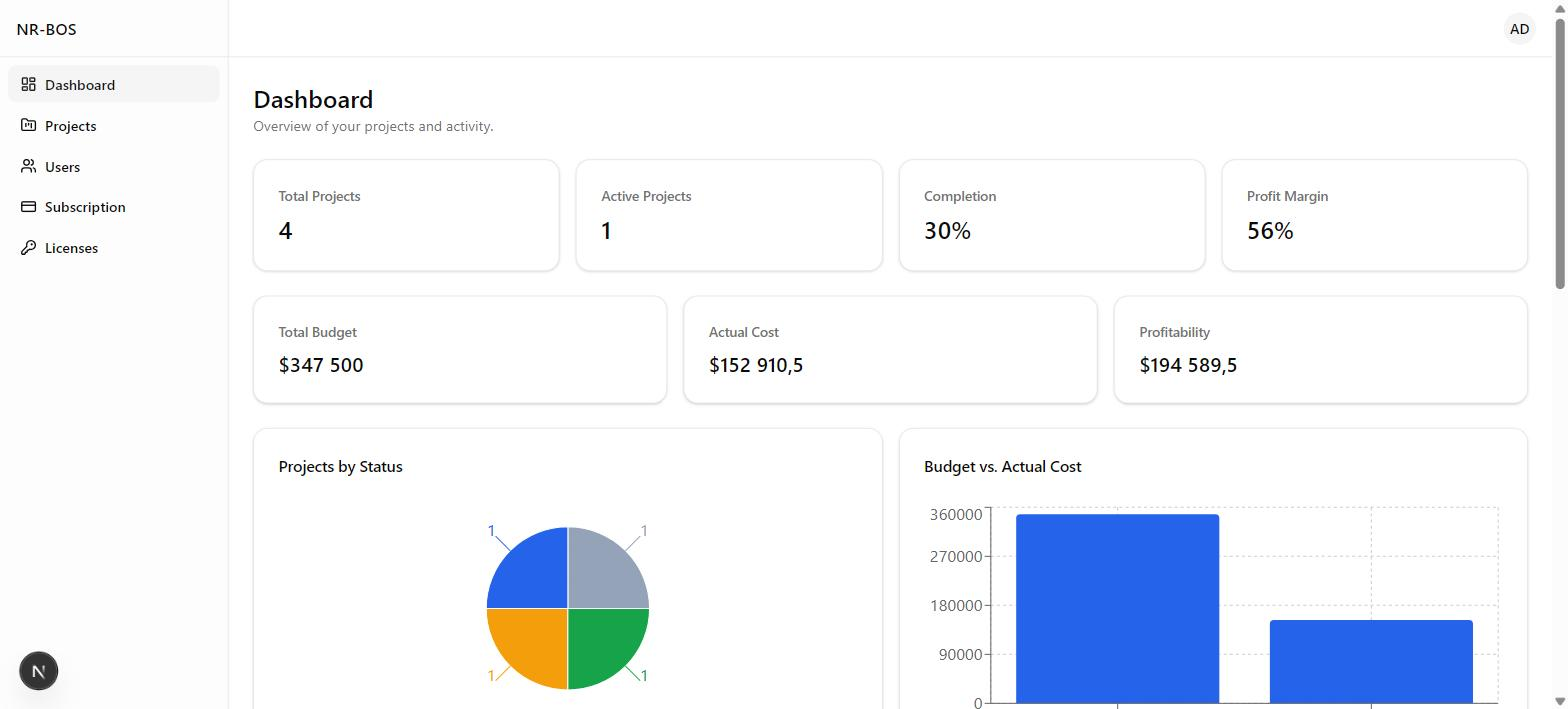
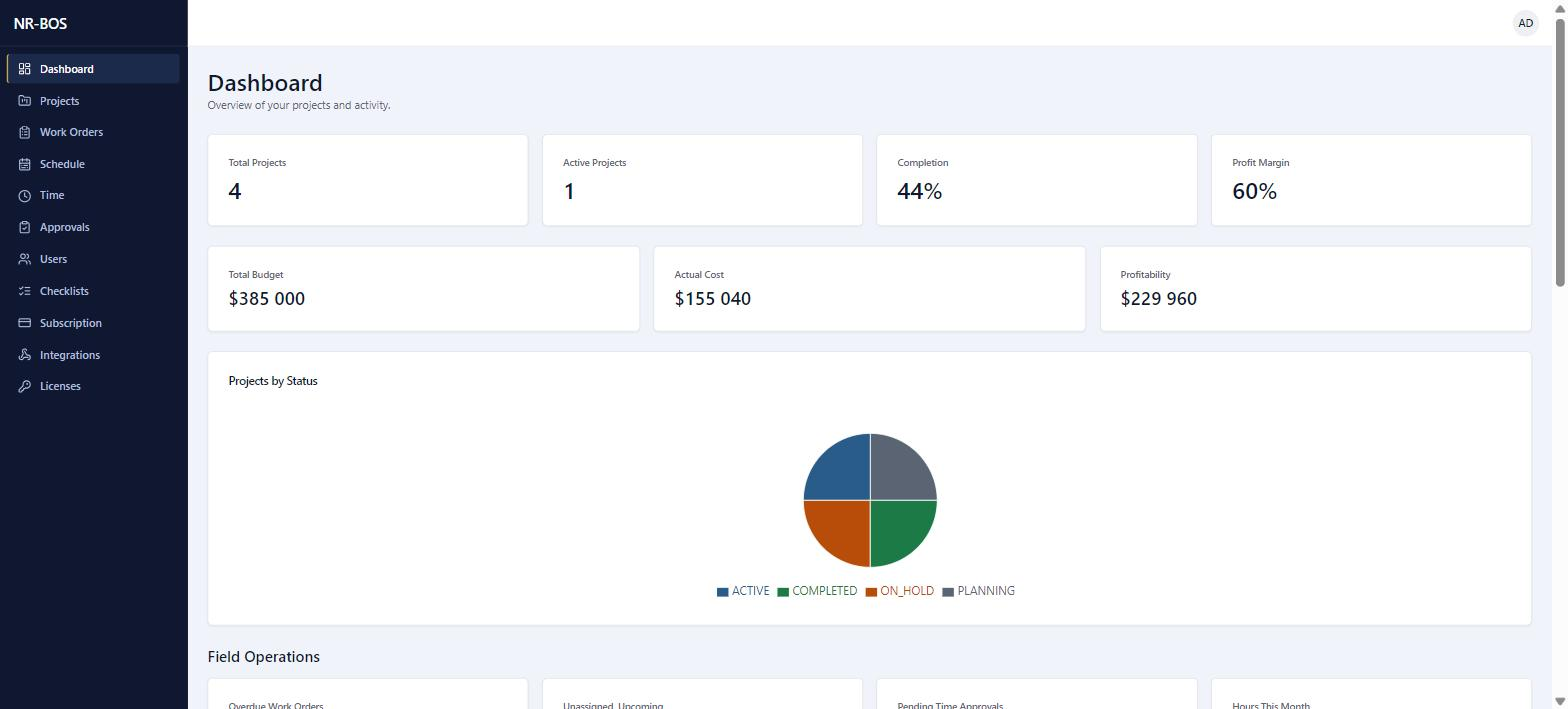
Refresh stale dashboard screenshot with seeded example data
dashboard-overview.jpg predated Work Orders/Schedule/Time/Approvals/
Checklists/Integrations — its sidebar only showed 5 nav items against
the current 10, and it showed an empty account (0 projects, no profit
margin figure), contradicting the copy that already described these
tiles. Seeded 4 example projects (varied status, budget, tasks, cost
entries) into the admin@nrbos.live account and recaptured the Dashboard
view at the exact same 1568x709 crop. Alt text updated to match what's
actually in the new image (profit margin is now visible; the old "cost
bars" description no longer matches the current tile layout).

This is the first of several stale screenshots (7 tour panels, ~15
images total) — the rest need photo uploads and other setup I'm
checking in about before continuing.

diff --git a/docs/sv/work/nr-bos/index.html b/docs/sv/work/nr-bos/index.html
@@ -522,8 +522,8 @@
           <div class="nrb2-shots">
             <figure class="nrb2-frame">
               <div class="nrb2-frame-bar"><i></i><i></i><i></i></div>
-              <img src="/assets/img/nr-bos/dashboard-overview.jpg" alt="NR-BOS-instrumentpanel som visar fyra projekträkningar, staplar för budget mot faktisk kostnad och ett cirkeldiagram över projekt efter status" loading="lazy" width="1568" height="710">
-              <figcaption>NR-BOS-instrumentpanel som visar fyra projekträkningar, staplar för budget mot faktisk kostnad och ett cirkeldiagram över projekt efter status</figcaption>
+              <img src="/assets/img/nr-bos/dashboard-overview.jpg" alt="NR-BOS-instrumentpanel som visar projekträkningar, färdigställandegrad, vinstmarginal, budget mot faktisk kostnad och ett cirkeldiagram över projekt efter status" loading="lazy" width="1568" height="710">
+              <figcaption>NR-BOS-instrumentpanel som visar projekträkningar, färdigställandegrad, vinstmarginal, budget mot faktisk kostnad och ett cirkeldiagram över projekt efter status</figcaption>
             </figure>
           </div>
         </div>

diff --git a/docs/ar/work/nr-bos/index.html b/docs/ar/work/nr-bos/index.html
@@ -523,8 +523,8 @@
           <div class="nrb2-shots">
             <figure class="nrb2-frame">
               <div class="nrb2-frame-bar"><i></i><i></i><i></i></div>
-              <img src="/assets/img/nr-bos/dashboard-overview.jpg" alt="NR-BOS dashboard showing four project counts, budget vs. actual cost bars, and a projects-by-status pie chart" loading="lazy" width="1568" height="710">
-              <figcaption>NR-BOS dashboard showing four project counts, budget vs. actual cost bars, and a projects-by-status pie chart</figcaption>
+              <img src="/assets/img/nr-bos/dashboard-overview.jpg" alt="NR-BOS dashboard showing project counts, completion percentage, profit margin, budget vs. actual cost, and a projects-by-status pie chart" loading="lazy" width="1568" height="710">
+              <figcaption>NR-BOS dashboard showing project counts, completion percentage, profit margin, budget vs. actual cost, and a projects-by-status pie chart</figcaption>
             </figure>
           </div>
         </div>

diff --git a/docs/de/work/nr-bos/index.html b/docs/de/work/nr-bos/index.html
@@ -522,8 +522,8 @@
           <div class="nrb2-shots">
             <figure class="nrb2-frame">
               <div class="nrb2-frame-bar"><i></i><i></i><i></i></div>
-              <img src="/assets/img/nr-bos/dashboard-overview.jpg" alt="NR-BOS dashboard showing four project counts, budget vs. actual cost bars, and a projects-by-status pie chart" loading="lazy" width="1568" height="710">
-              <figcaption>NR-BOS dashboard showing four project counts, budget vs. actual cost bars, and a projects-by-status pie chart</figcaption>
+              <img src="/assets/img/nr-bos/dashboard-overview.jpg" alt="NR-BOS dashboard showing project counts, completion percentage, profit margin, budget vs. actual cost, and a projects-by-status pie chart" loading="lazy" width="1568" height="710">
+              <figcaption>NR-BOS dashboard showing project counts, completion percentage, profit margin, budget vs. actual cost, and a projects-by-status pie chart</figcaption>
             </figure>
           </div>
         </div>

diff --git a/docs/es/work/nr-bos/index.html b/docs/es/work/nr-bos/index.html
@@ -522,8 +522,8 @@
           <div class="nrb2-shots">
             <figure class="nrb2-frame">
               <div class="nrb2-frame-bar"><i></i><i></i><i></i></div>
-              <img src="/assets/img/nr-bos/dashboard-overview.jpg" alt="NR-BOS dashboard showing four project counts, budget vs. actual cost bars, and a projects-by-status pie chart" loading="lazy" width="1568" height="710">
-              <figcaption>NR-BOS dashboard showing four project counts, budget vs. actual cost bars, and a projects-by-status pie chart</figcaption>
+              <img src="/assets/img/nr-bos/dashboard-overview.jpg" alt="NR-BOS dashboard showing project counts, completion percentage, profit margin, budget vs. actual cost, and a projects-by-status pie chart" loading="lazy" width="1568" height="710">
+              <figcaption>NR-BOS dashboard showing project counts, completion percentage, profit margin, budget vs. actual cost, and a projects-by-status pie chart</figcaption>
             </figure>
           </div>
         </div>

diff --git a/docs/fr/work/nr-bos/index.html b/docs/fr/work/nr-bos/index.html
@@ -522,8 +522,8 @@
           <div class="nrb2-shots">
             <figure class="nrb2-frame">
               <div class="nrb2-frame-bar"><i></i><i></i><i></i></div>
-              <img src="/assets/img/nr-bos/dashboard-overview.jpg" alt="NR-BOS dashboard showing four project counts, budget vs. actual cost bars, and a projects-by-status pie chart" loading="lazy" width="1568" height="710">
-              <figcaption>NR-BOS dashboard showing four project counts, budget vs. actual cost bars, and a projects-by-status pie chart</figcaption>
+              <img src="/assets/img/nr-bos/dashboard-overview.jpg" alt="NR-BOS dashboard showing project counts, completion percentage, profit margin, budget vs. actual cost, and a projects-by-status pie chart" loading="lazy" width="1568" height="710">
+              <figcaption>NR-BOS dashboard showing project counts, completion percentage, profit margin, budget vs. actual cost, and a projects-by-status pie chart</figcaption>
             </figure>
           </div>
         </div>

diff --git a/docs/it/work/nr-bos/index.html b/docs/it/work/nr-bos/index.html
@@ -522,8 +522,8 @@
           <div class="nrb2-shots">
             <figure class="nrb2-frame">
               <div class="nrb2-frame-bar"><i></i><i></i><i></i></div>
-              <img src="/assets/img/nr-bos/dashboard-overview.jpg" alt="NR-BOS dashboard showing four project counts, budget vs. actual cost bars, and a projects-by-status pie chart" loading="lazy" width="1568" height="710">
-              <figcaption>NR-BOS dashboard showing four project counts, budget vs. actual cost bars, and a projects-by-status pie chart</figcaption>
+              <img src="/assets/img/nr-bos/dashboard-overview.jpg" alt="NR-BOS dashboard showing project counts, completion percentage, profit margin, budget vs. actual cost, and a projects-by-status pie chart" loading="lazy" width="1568" height="710">
+              <figcaption>NR-BOS dashboard showing project counts, completion percentage, profit margin, budget vs. actual cost, and a projects-by-status pie chart</figcaption>
             </figure>
           </div>
         </div>

diff --git a/docs/nl/work/nr-bos/index.html b/docs/nl/work/nr-bos/index.html
@@ -522,8 +522,8 @@
           <div class="nrb2-shots">
             <figure class="nrb2-frame">
               <div class="nrb2-frame-bar"><i></i><i></i><i></i></div>
-              <img src="/assets/img/nr-bos/dashboard-overview.jpg" alt="NR-BOS dashboard showing four project counts, budget vs. actual cost bars, and a projects-by-status pie chart" loading="lazy" width="1568" height="710">
-              <figcaption>NR-BOS dashboard showing four project counts, budget vs. actual cost bars, and a projects-by-status pie chart</figcaption>
+              <img src="/assets/img/nr-bos/dashboard-overview.jpg" alt="NR-BOS dashboard showing project counts, completion percentage, profit margin, budget vs. actual cost, and a projects-by-status pie chart" loading="lazy" width="1568" height="710">
+              <figcaption>NR-BOS dashboard showing project counts, completion percentage, profit margin, budget vs. actual cost, and a projects-by-status pie chart</figcaption>
             </figure>
           </div>
         </div>

diff --git a/docs/pl/work/nr-bos/index.html b/docs/pl/work/nr-bos/index.html
@@ -522,8 +522,8 @@
           <div class="nrb2-shots">
             <figure class="nrb2-frame">
               <div class="nrb2-frame-bar"><i></i><i></i><i></i></div>
-              <img src="/assets/img/nr-bos/dashboard-overview.jpg" alt="NR-BOS dashboard showing four project counts, budget vs. actual cost bars, and a projects-by-status pie chart" loading="lazy" width="1568" height="710">
-              <figcaption>NR-BOS dashboard showing four project counts, budget vs. actual cost bars, and a projects-by-status pie chart</figcaption>
+              <img src="/assets/img/nr-bos/dashboard-overview.jpg" alt="NR-BOS dashboard showing project counts, completion percentage, profit margin, budget vs. actual cost, and a projects-by-status pie chart" loading="lazy" width="1568" height="710">
+              <figcaption>NR-BOS dashboard showing project counts, completion percentage, profit margin, budget vs. actual cost, and a projects-by-status pie chart</figcaption>
             </figure>
           </div>
         </div>

diff --git a/docs/pt/work/nr-bos/index.html b/docs/pt/work/nr-bos/index.html
@@ -522,8 +522,8 @@
           <div class="nrb2-shots">
             <figure class="nrb2-frame">
               <div class="nrb2-frame-bar"><i></i><i></i><i></i></div>
-              <img src="/assets/img/nr-bos/dashboard-overview.jpg" alt="NR-BOS dashboard showing four project counts, budget vs. actual cost bars, and a projects-by-status pie chart" loading="lazy" width="1568" height="710">
-              <figcaption>NR-BOS dashboard showing four project counts, budget vs. actual cost bars, and a projects-by-status pie chart</figcaption>
+              <img src="/assets/img/nr-bos/dashboard-overview.jpg" alt="NR-BOS dashboard showing project counts, completion percentage, profit margin, budget vs. actual cost, and a projects-by-status pie chart" loading="lazy" width="1568" height="710">
+              <figcaption>NR-BOS dashboard showing project counts, completion percentage, profit margin, budget vs. actual cost, and a projects-by-status pie chart</figcaption>
             </figure>
           </div>
         </div>

diff --git a/docs/ur/work/nr-bos/index.html b/docs/ur/work/nr-bos/index.html
@@ -523,8 +523,8 @@
           <div class="nrb2-shots">
             <figure class="nrb2-frame">
               <div class="nrb2-frame-bar"><i></i><i></i><i></i></div>
-              <img src="/assets/img/nr-bos/dashboard-overview.jpg" alt="NR-BOS dashboard showing four project counts, budget vs. actual cost bars, and a projects-by-status pie chart" loading="lazy" width="1568" height="710">
-              <figcaption>NR-BOS dashboard showing four project counts, budget vs. actual cost bars, and a projects-by-status pie chart</figcaption>
+              <img src="/assets/img/nr-bos/dashboard-overview.jpg" alt="NR-BOS dashboard showing project counts, completion percentage, profit margin, budget vs. actual cost, and a projects-by-status pie chart" loading="lazy" width="1568" height="710">
+              <figcaption>NR-BOS dashboard showing project counts, completion percentage, profit margin, budget vs. actual cost, and a projects-by-status pie chart</figcaption>
             </figure>
           </div>
         </div>

diff --git a/docs/work/nr-bos/index.html b/docs/work/nr-bos/index.html
@@ -522,8 +522,8 @@
           <div class="nrb2-shots">
             <figure class="nrb2-frame">
               <div class="nrb2-frame-bar"><i></i><i></i><i></i></div>
-              <img src="/assets/img/nr-bos/dashboard-overview.jpg" alt="NR-BOS dashboard showing four project counts, budget vs. actual cost bars, and a projects-by-status pie chart" loading="lazy" width="1568" height="710">
-              <figcaption>NR-BOS dashboard showing four project counts, budget vs. actual cost bars, and a projects-by-status pie chart</figcaption>
+              <img src="/assets/img/nr-bos/dashboard-overview.jpg" alt="NR-BOS dashboard showing project counts, completion percentage, profit margin, budget vs. actual cost, and a projects-by-status pie chart" loading="lazy" width="1568" height="710">
+              <figcaption>NR-BOS dashboard showing project counts, completion percentage, profit margin, budget vs. actual cost, and a projects-by-status pie chart</figcaption>
             </figure>
           </div>
         </div>
